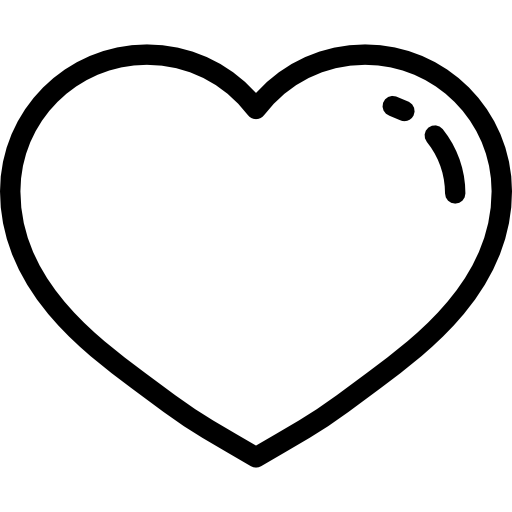
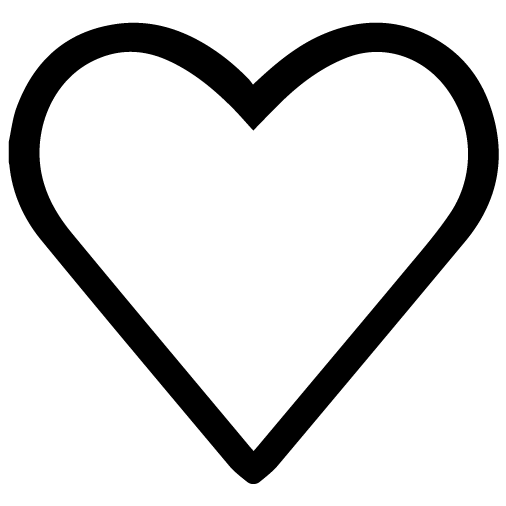
Imagen de corazon añadida

diff --git a/src/main/java/es/cipfpbatoi/controllers/ControllerDetalles.java b/src/main/java/es/cipfpbatoi/controllers/ControllerDetalles.java
@@ -49,6 +49,9 @@ public class ControllerDetalles implements Initializable {
     private ImageView flecha;
 
     @FXML
+    private ImageView corazon;
+
+    @FXML
     private HBox container;
 
     private EsFavoritaRepository esFavoritaRepository;
@@ -90,10 +93,10 @@ public class ControllerDetalles implements Initializable {
             }
         }
 
-    @FXML
-    private void verMasTarde(ActionEvent event) {
-        esFavoritaRepository.save(user, produccion);
-    }
+        @FXML
+        private void verMasTarde(ActionEvent event) {
+            esFavoritaRepository.save(user, produccion);
+        }
 
         @Override
         public void initialize (URL url, ResourceBundle resourceBundle){
@@ -101,6 +104,7 @@ public class ControllerDetalles implements Initializable {
                 logoImageView.setImage(new Image(getPathImage("/images/LogoBatoiCineTop.png")));
                 flecha.setImage(new Image(getPathImage("/images/Flecha_goBack.png")));
                 portada.setImage(new Image(produccion.getPoster()));
+                corazon.setImage(new Image(getPathImage("/images/corazonBlancoyNegro.png")));
 
             } catch (URISyntaxException e) {
                 throw new RuntimeException(e);
